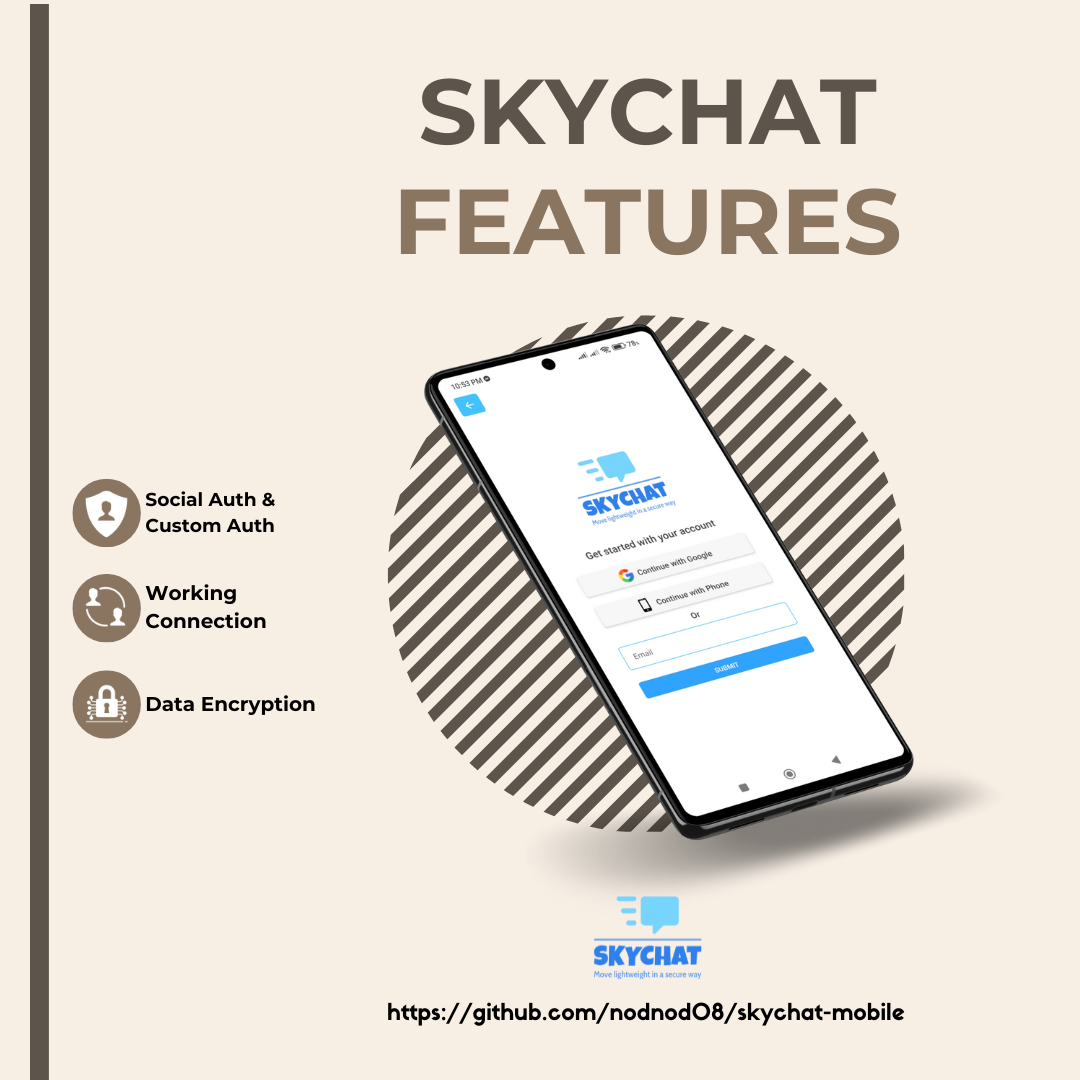
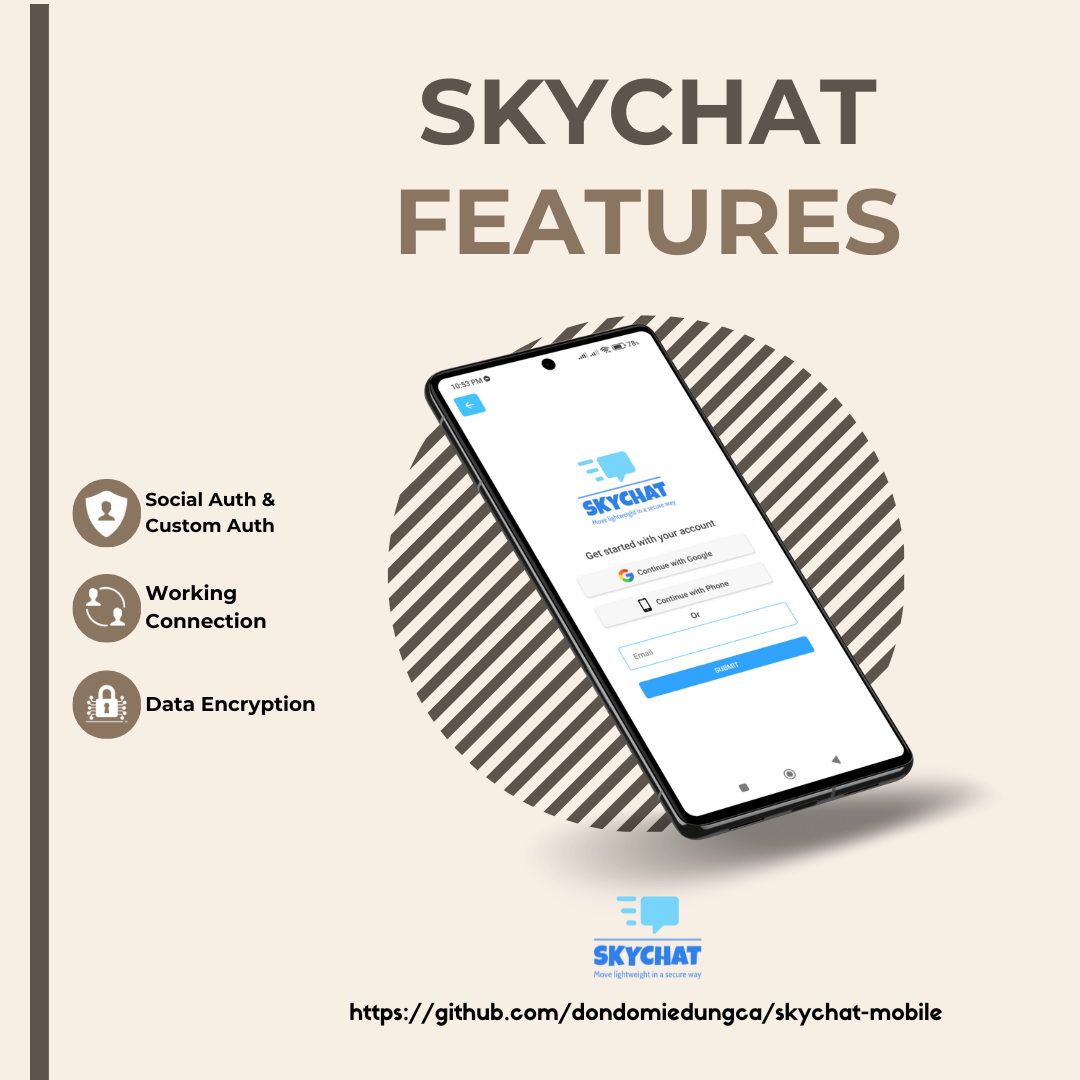
Updated the github username

Changed region(s): [[0.3056, 0.9167, 0.8861, 0.9472]]

diff --git a/src/components/Projects.tsx b/src/components/Projects.tsx
@@ -85,7 +85,7 @@ const Projects = (props: any, ref: any) => {
               <img src="/link.png" className="w-5" alt="" />
             </a>
             <a
-              href="https://github.com/nodnod08/leiger-web"
+              href="https://github.com/dondomiedungca/leiger-web"
               target="_blank"
               className="bg-white-1 cursor-pointer rounded-full drop-shadow-md p-2 duration-200 transform active:scale-75 transition-transform"
             >
@@ -164,7 +164,7 @@ const Projects = (props: any, ref: any) => {
                 <img src="/link.png" className="w-6" alt="" />
               </a>
               <a
-                href="https://github.com/nodnod08/leiger-web"
+                href="https://github.com/dondomiedungca/leiger-web"
                 target="_blank"
                 className="cursor-pointer bg-white-1 rounded-full drop-shadow-md p-2 duration-200 transform active:scale-75 transition-transform"
               >
@@ -279,7 +279,7 @@ const Projects = (props: any, ref: any) => {
         </div>
         <div className="relative z-20 flex flex-row items-center justify-between mt-5 mx-5">
           <a
-            href="https://github.com/nodnod08/skychat-mobile"
+            href="https://github.com/dondomiedungca/skychat-mobile"
             target="_blank"
             className="cursor-pointer bg-white-1 rounded-full drop-shadow-md p-2 duration-200 transform active:scale-75 transition-transform"
           >
